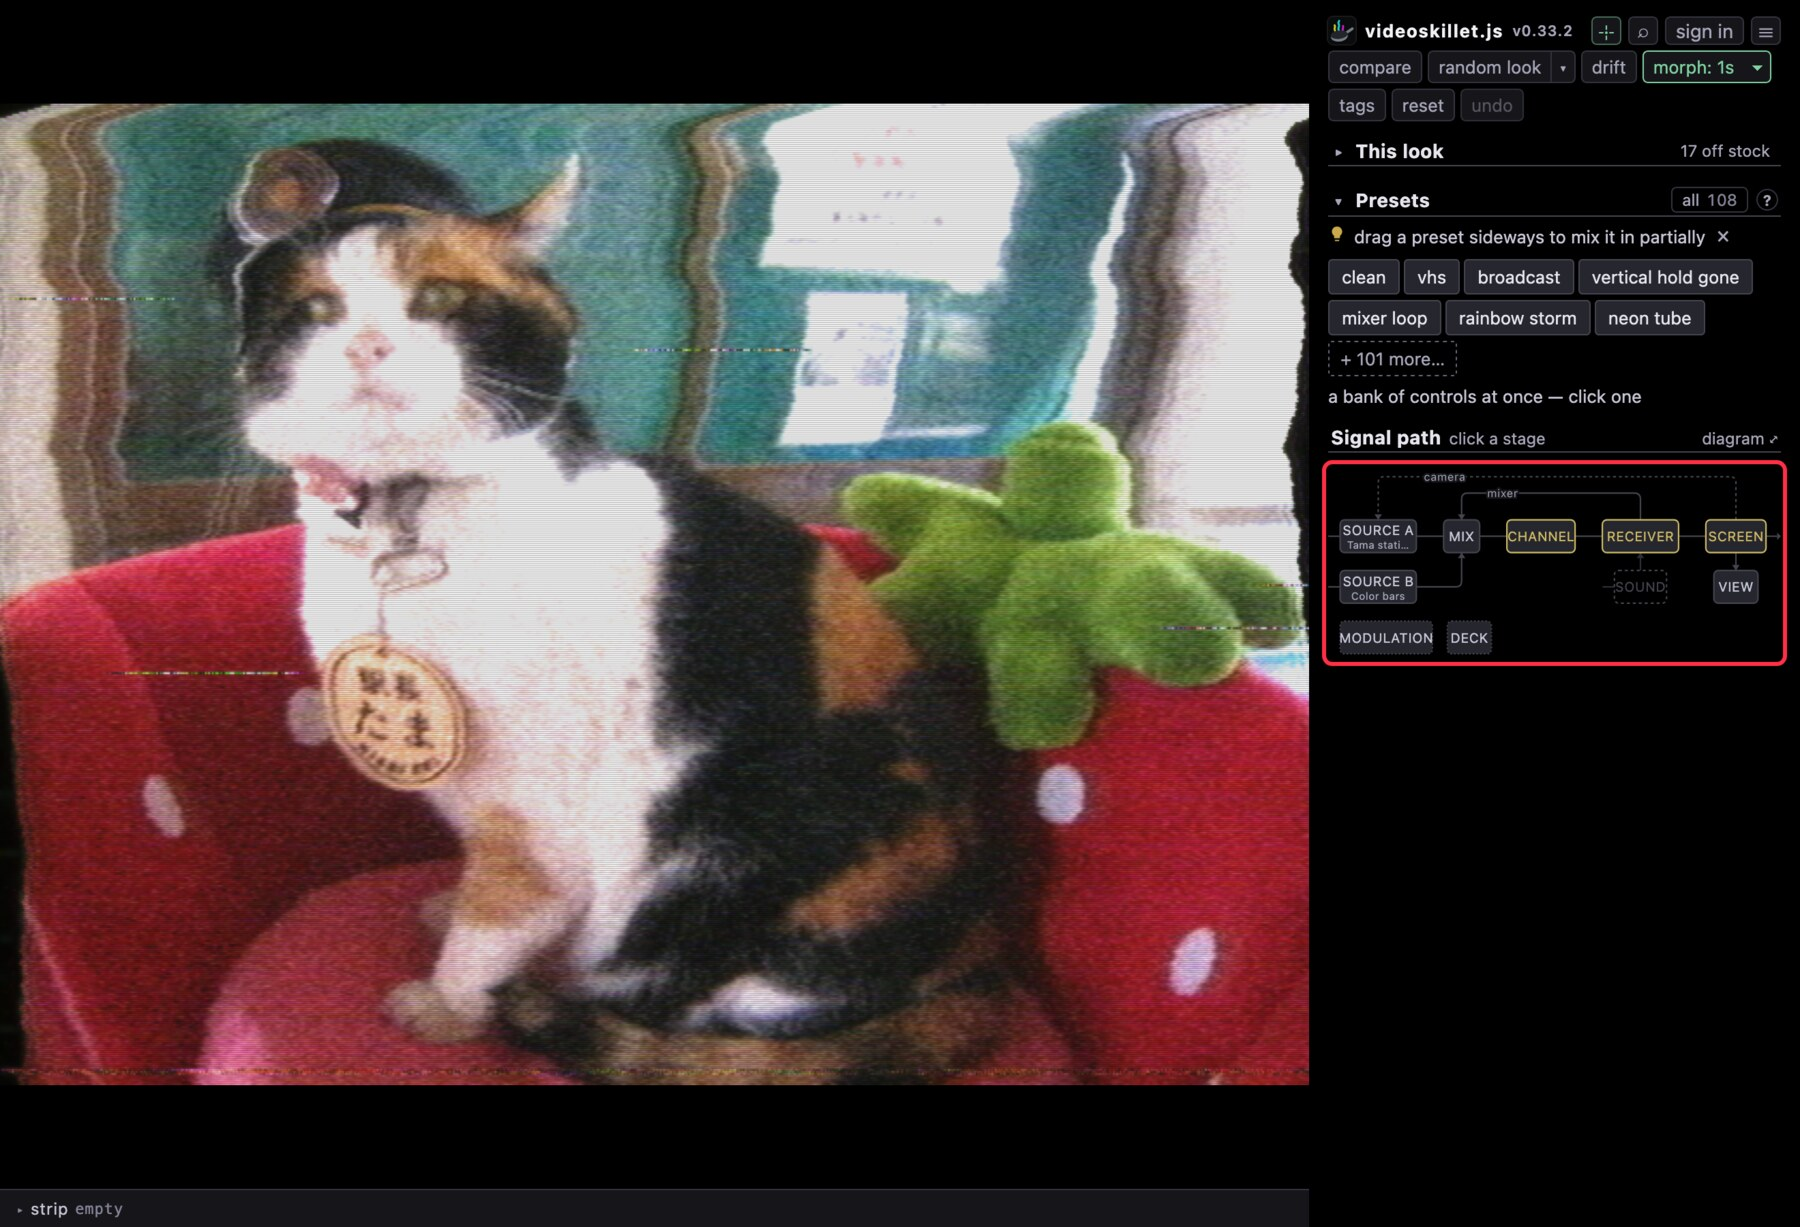
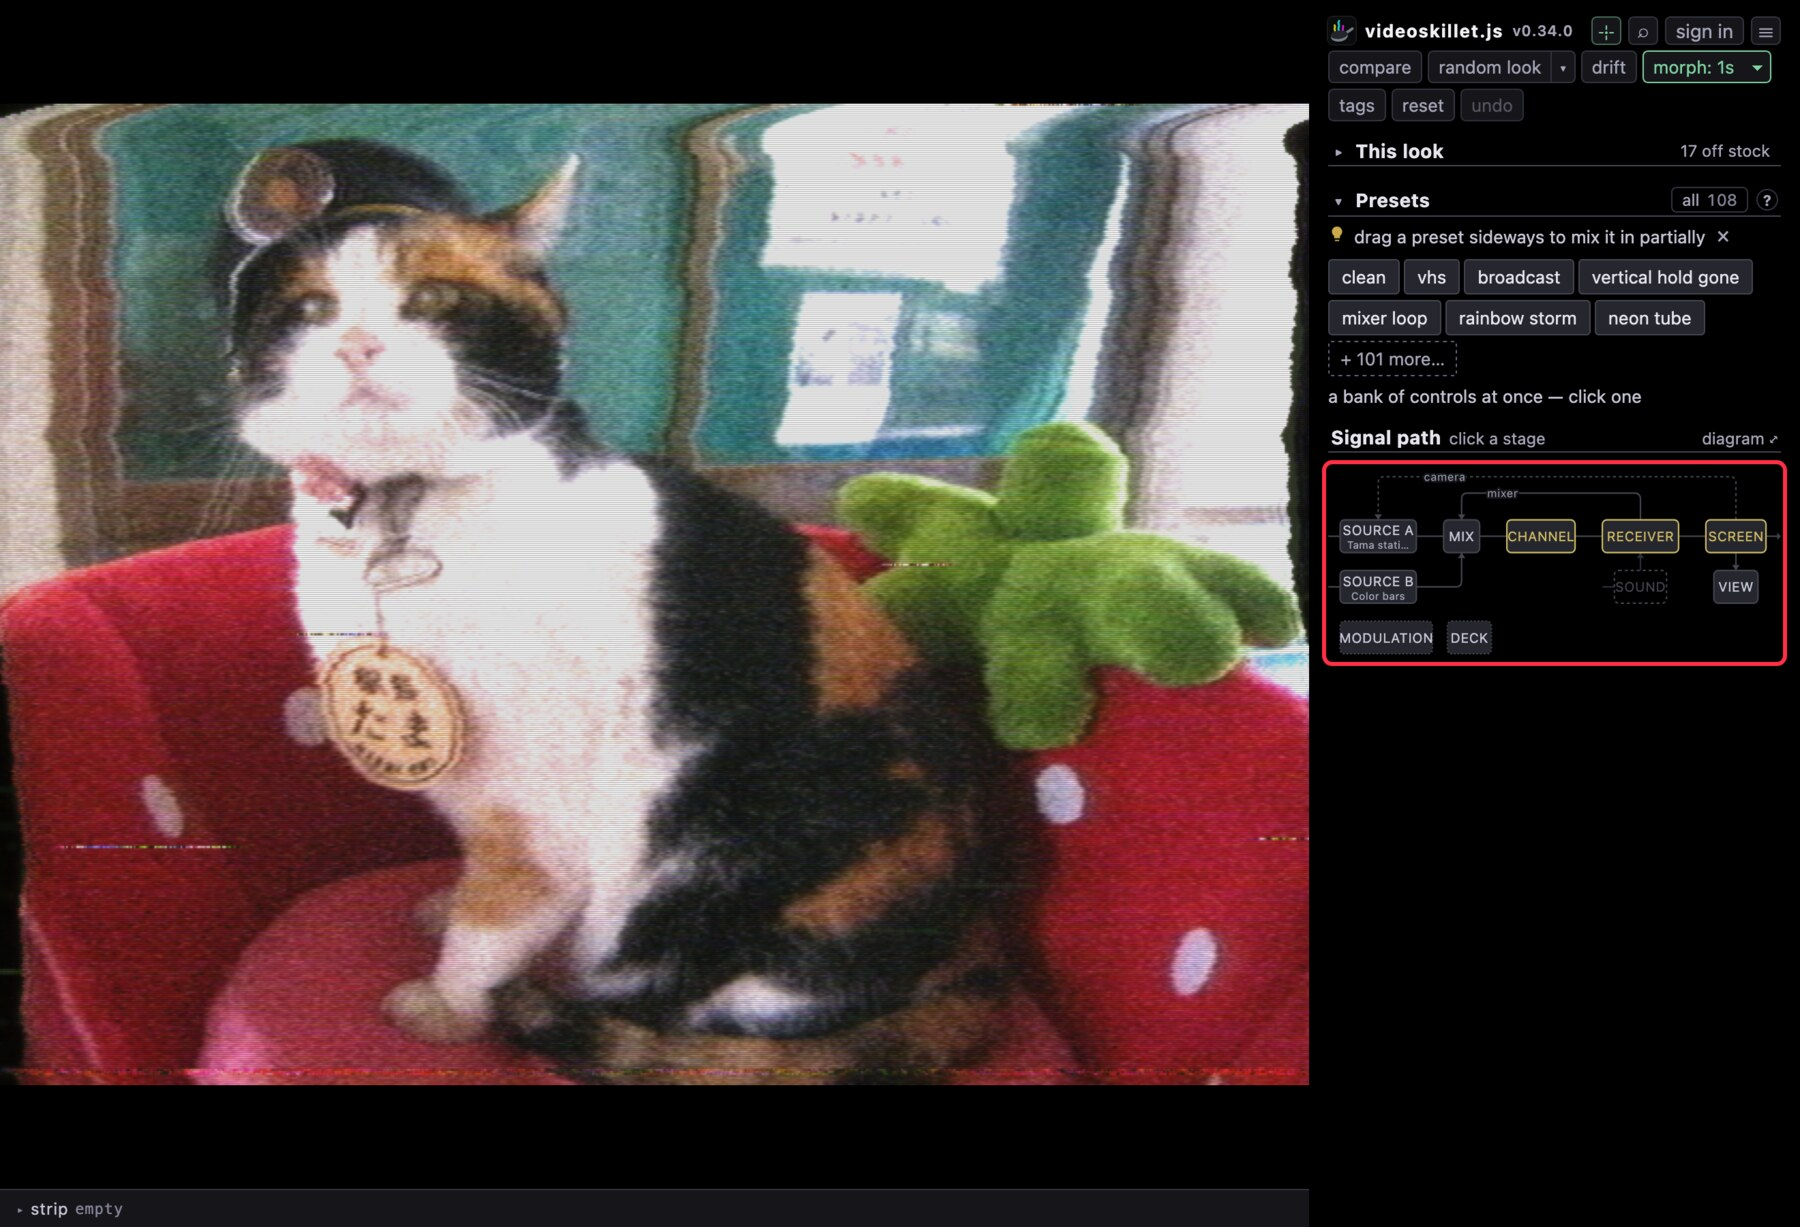
docs: the guide shows the map you click, and the presets
The user guide's chain section had one figure — the app window with the
map boxed in red at 360px, which says where it sits and not what is on
it. The crop callout.mjs already composes into the README's figure now
runs in the guide too, under the paragraph that says every box is a
button: the stage names are readable at that size, and the header line
comes with it, so "Signal path · click a stage" captions itself.

Presets had no figure at all. `presets` is the same shape of shot — the
panel's top cropped out of the window rather than boxed inside it, from
the whole-board verbs down through the shortlist and the handle to the
other 101 — which is the bar docshot-specs.mjs set for anything re-added
after the ten boxed-UI shots went.

Retook the four shots that were behind v0.34.0 while the server was up;
only the masthead's version string moved.

diff --git a/docs/USER-GUIDE.md b/docs/USER-GUIDE.md
@@ -6,6 +6,8 @@ Everything past [Getting started](GETTING-STARTED.md).
 
 Click a preset to jump to it; drag it sideways to blend it part-way in.
 
+![The head of the panel: a row of whole-board verbs — compare, random look and its ▾, drift, morph — over tags, reset and undo, then This look with its off-stock count, then the Presets shortlist of chips and the dashed handle to the other 101](img/presets.png)
+
 - **This look** lists every control you're off stock on, as sliders. Drag to
   edit, **↺** to revert one.
 - **reset** puts everything back to stock — controls, modulation bay, stab gate
@@ -100,6 +102,8 @@ last session's clips up again.
 The map at the top of the sidebar is the signal path, and every box is a button.
 Amber marks a stage you've moved something in. The three wires arcing over the
 trunk are the feedback loops — camera, mixer, tape — each its own button.
+
+![The same map at readable size, its header reading Signal path · click a stage: SOURCE A and SOURCE B into MIX, then CHANNEL, RECEIVER and SCREEN in amber, the camera and mixer returns arching back over the trunk, SOUND dashed and inert under RECEIVER, VIEW under SCREEN, and MODULATION and DECK on a row of their own with no wire reaching them](img/signal-path.png)
 
 **DECK** and **MODULATION** sit below the chain because they patch into the
 controls, not the signal. MODULATION is the hand you set running and leave. DECK
